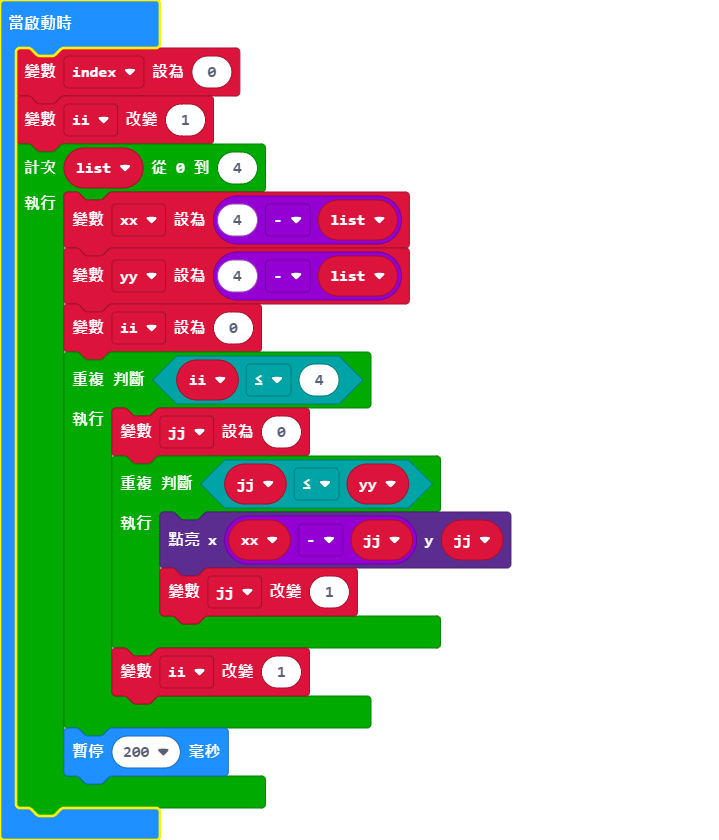
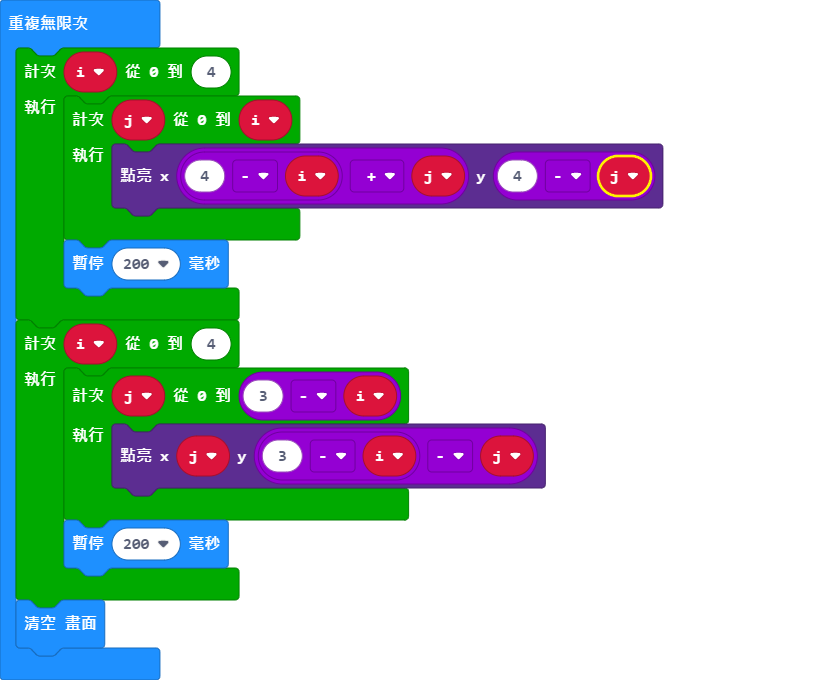
Update main.blocks, main.ts

diff --git a/main.ts b/main.ts
@@ -1,20 +1,15 @@
-let jj = 0
-let yy = 0
-let xx = 0
-let ii = 0
-let index = 0
-ii += 1
-for (let list = 0; list <= 4; list++) {
-    xx = 4 - list
-    yy = 4 - list
-    ii = 0
-    while (ii <= 4) {
-        jj = 0
-        while (jj <= yy) {
-            led.plot(xx - jj, jj)
-            jj += 1
+basic.forever(function () {
+    for (let i = 0; i <= 4; i++) {
+        for (let j = 0; j <= i; j++) {
+            led.plot(4 - i + j, 4 - j)
         }
-        ii += 1
+        basic.pause(200)
     }
-    basic.pause(200)
-}
+    for (let i = 0; i <= 4; i++) {
+        for (let j = 0; j <= 3 - i; j++) {
+            led.plot(j, 3 - i - j)
+        }
+        basic.pause(200)
+    }
+    basic.clearScreen()
+})
